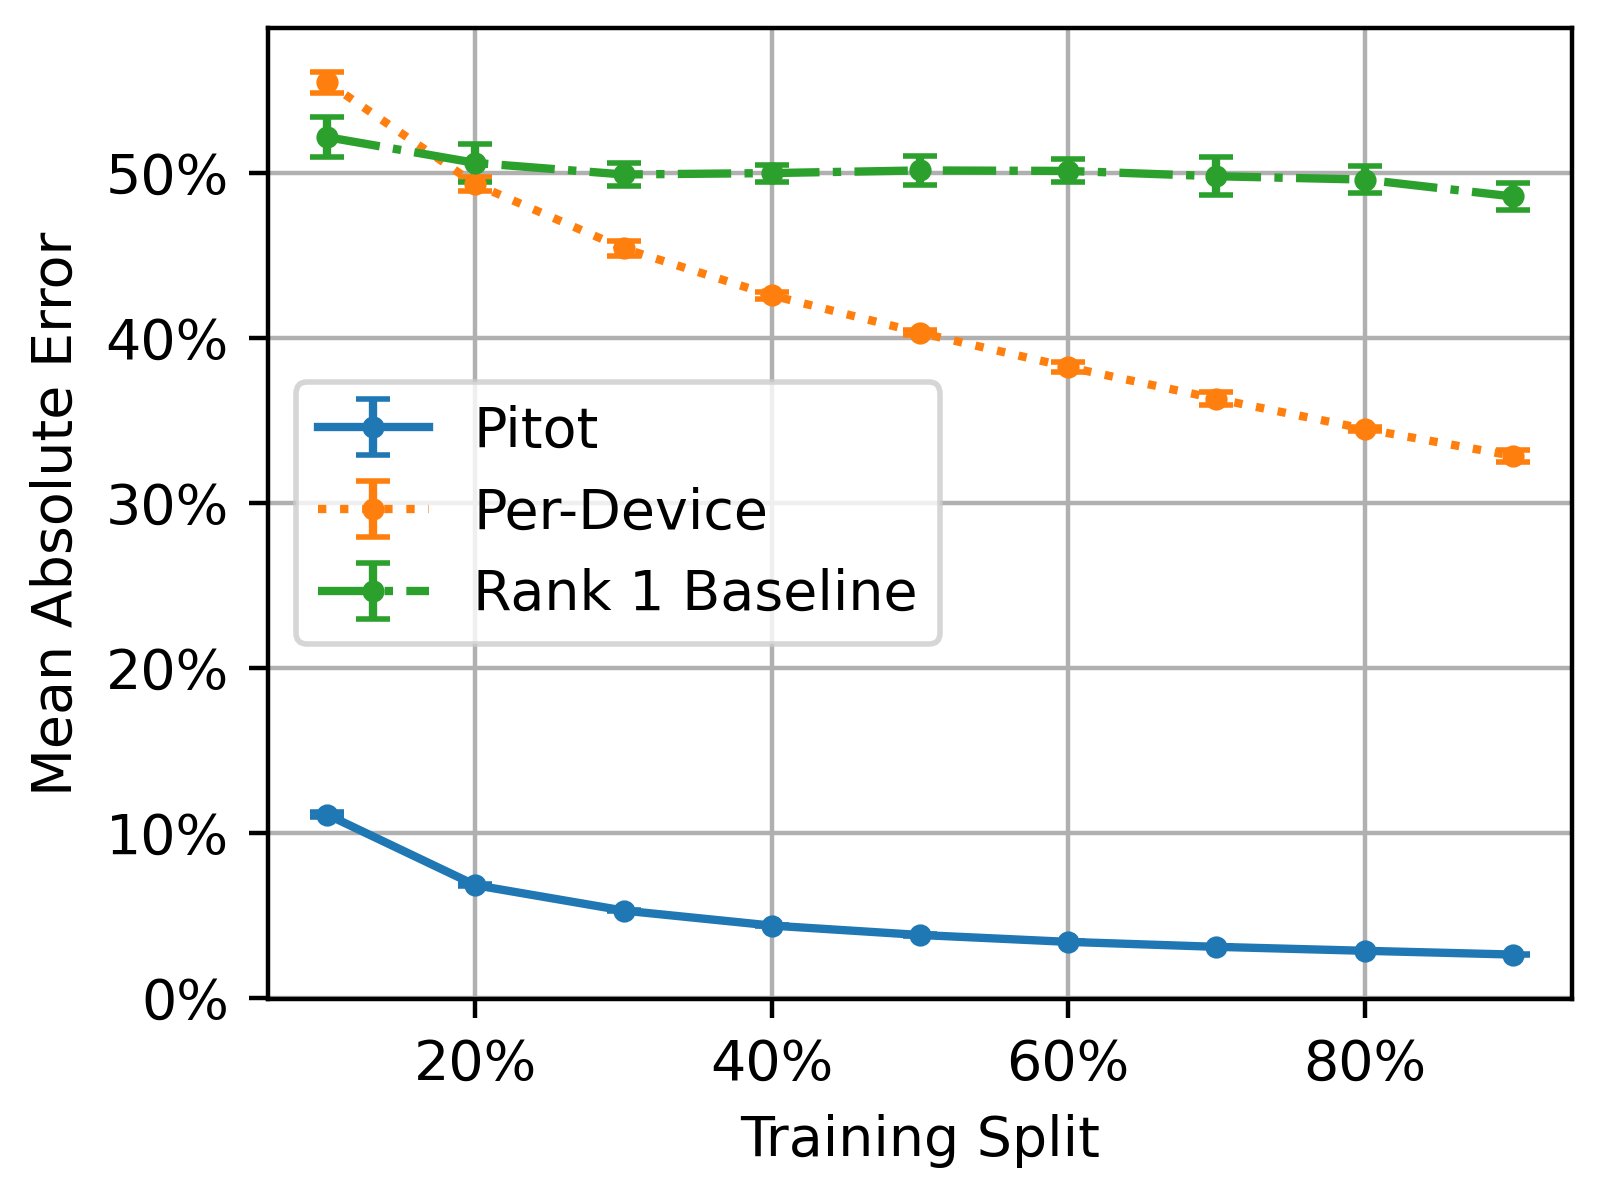
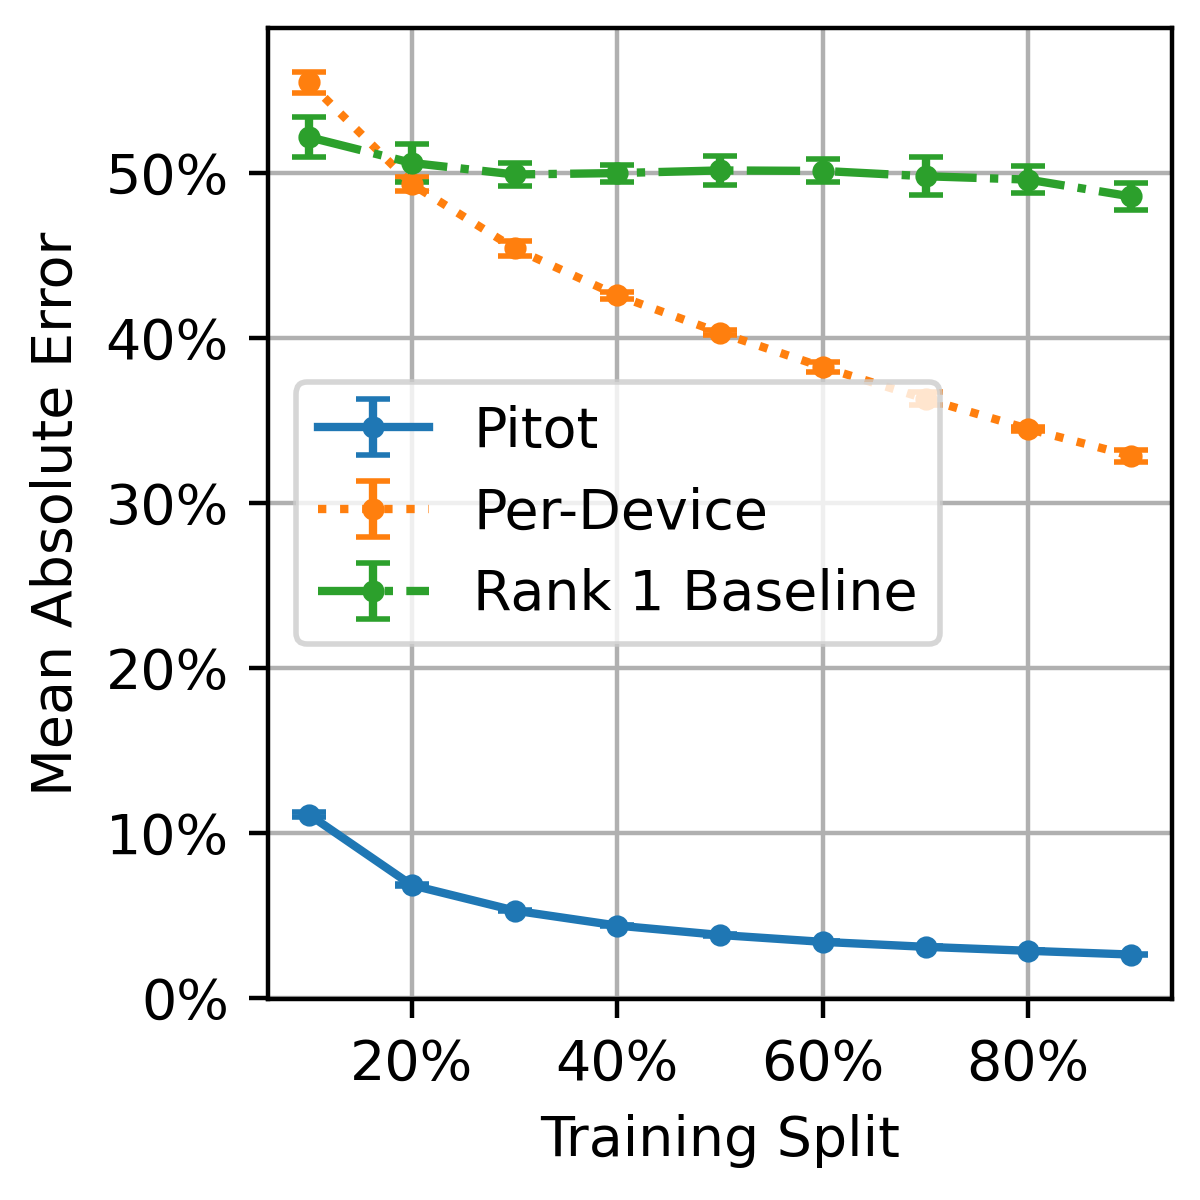
Update figures

diff --git a/tools/compare.py b/tools/compare.py
@@ -99,13 +99,14 @@ def _plot_percentile(
     for v, label, fmt in zip(values, labels, format):
         ax.plot(
             np.array(data[v]["splits"]),
-            -np.array(data[v][key]["percentile"])[:, p],
+            np.exp(-np.array(data[v][key]["percentile"])[:, p]) - 1,
             fmt, label=label)
 
     if baseline is not None:
         ax.plot(
             np.array(data[values[-1]]["splits"]),
-            -np.array(data[values[-1]][key]["baseline_percentile"])[:, p],
+            np.exp(-np.array(
+                data[values[-1]][key]["baseline_percentile"])[:, p]) - 1,
             format[-1], label=baseline)
 
     if legend:
@@ -119,7 +120,7 @@ class Figures:
     @staticmethod
     def comparison(args):
         """Baseline comparisons."""
-        figa, ax = plt.subplots(1, 1, figsize=(4, 3))
+        figa, ax = plt.subplots(1, 1, figsize=(3, 3))
         _plot(
             ax, ["embedding/128", "linear/128", "baseline/mlp"],
             labels=[
@@ -128,7 +129,7 @@ class Figures:
         ax.set_ylabel("Mean Absolute Error")
         _fmt_axes(figa, ax)
 
-        figb, ax = plt.subplots(1, 1, figsize=(4, 3))
+        figb, ax = plt.subplots(1, 1, figsize=(3, 3))
         _plot(
             ax, ["embedding/128", "baseline/device_mlp"],
             labels=["Pitot", "Per-Device"],
@@ -136,7 +137,7 @@ class Figures:
         ax.set_ylabel("Mean Absolute Error")
         _fmt_axes(figb, ax)
 
-        figc, ax = plt.subplots(1, 1, figsize=(4, 3))
+        figc, ax = plt.subplots(1, 1, figsize=(3, 3))
         _plot(
             ax, [
                 "embedding/128", "baseline/module_only",
@@ -155,15 +156,22 @@ class Figures:
     @staticmethod
     def percentile(args):
         """Comparison of calibration magnitude."""
-        fig, ax = plt.subplots(1, 1, figsize=(3, 3))
+        fig, axs = plt.subplots(1, 2, figsize=(6, 3))
         _plot_percentile(
-            ax, ["embedding/128", "linear/128", "baseline/mlp"], p=5,
+            axs[0], ["embedding/128", "linear/128", "baseline/mlp"], p=1,
             labels=[
                 "Pitot", "Linear Factorization",
-                "Single Network"])
-        ax.set_ylabel("5% Calibration Margin")
-        _fmt_axes(fig, ax)
-        fig.tight_layout(pad=0.5)
+                "Single Network"], legend=False)
+        _plot_percentile(
+            axs[1], ["embedding/128", "linear/128", "baseline/mlp"], p=5,
+            labels=[
+                "Pitot", "Linear Factorization",
+                "Single Network"], legend=True)
+        axs[0].set_ylabel("Calibration Margin")
+        axs[0].set_title("99% Certainty")
+        axs[1].set_title("95% Certainty")
+        _fmt_axes(fig, axs)
+
         return {"percentile": fig}
 
     @staticmethod
@@ -211,7 +219,6 @@ class Figures:
         axs[0].set_ylabel("Relative Error")
         axs[0].set_title("Non-interference Error")
         axs[1].set_title("Interference Error")
-
         _sharey(axs)
         _fmt_axes(fig, axs)
         for ax in axs:

diff --git a/tools/embedded.py b/tools/embedded.py
@@ -1,0 +1,80 @@
+"""Plot for embedded-only error."""
+
+import json
+import os
+import numpy as np
+from jax import numpy as jnp
+from tqdm import tqdm
+from matplotlib import pyplot as plt
+import matplotlib.ticker as mtick
+
+from prediction import Dataset, Objective
+
+
+_desc = "Plot error for only embedded devices."
+
+
+def _parse(p):
+    p.add_argument("-p", "--path", default="results", help="Path to results.")
+    p.add_argument(
+        "-d", "--data", default="data/data.npz", help="Dataset directory.")
+    return p
+
+
+def _load_split(ds, method):
+
+    with open(method + ".json") as f:
+        config = json.load(f)
+
+    _obj = config["config"]["objectives"][0]
+    objective = Objective.from_config(ds, _obj)
+    result = np.load(method + ".npz")
+
+    def index(idx):
+        return idx[ds.x[idx][:, 0] == 47]
+
+    means = []
+    for res, split in zip(result["C_hat"], result["mf_test"]):
+        _filtered = index(split)
+        means.append(objective.mape(jnp.array(res), jnp.array(_filtered)))
+    return np.mean(means), np.sqrt(np.var(means, ddof=1))
+
+
+def _load(ds, method):
+
+    splits = sorted([
+        float(x.replace(".npz", "")) for x in os.listdir(method)
+        if x.endswith(".npz")])
+    mean, stderr = list(zip(*[
+        _load_split(ds, os.path.join(method, str(s))) for s in tqdm(splits)]))
+    return np.array(mean).tolist(), np.array(stderr).tolist()
+
+
+def _main(args):
+
+    methods = {
+        "embedding/128": "Pitot",
+        "baseline/mlp": "Single Network",
+        "linear/128": "Linear Factorization",
+        "baseline/device_mlp": "Per-Device",
+    }
+
+    ds = Dataset.from_npz(args.data)
+    data = {
+        method: _load(ds, os.path.join(args.path, method))
+        for method in methods
+    }
+    splits = [0.1, 0.2, 0.3, 0.4, 0.5, 0.6, 0.7, 0.8, 0.9]
+    fig, ax = plt.subplots(1, 1, figsize=(3, 3))
+    for (k, (mean, stderr)), fmt in zip(data.items(), ['.-', '.:', '.--']):
+        ax.errorbar(
+            splits, mean, yerr=stderr, label=methods[k], capsize=3, fmt=fmt)
+    ax.grid()
+    ax.legend()
+    ax.set_xlabel("Training Split")
+    ax.set_ylabel("Mean Absolute Error (Embedded)")
+    ax.set_ylim(0, 1.2)
+    ax.xaxis.set_major_formatter(mtick.PercentFormatter(1.0))
+    ax.yaxis.set_major_formatter(mtick.PercentFormatter(1.0))
+    fig.tight_layout(pad=0.5)
+    fig.savefig("figures/comparisons_d.png", dpi=400)

diff --git a/tools/plot_simulation.py b/tools/plot_simulation.py
@@ -17,10 +17,10 @@ def _parse(p):
     return p
 
 
-def _main(args):
+def _plot_result(ax, path):
 
     def _load(method):
-        base_dir = os.path.join(args.path, method)
+        base_dir = os.path.join(path, method)
         splits = os.listdir(base_dir)
         splits = sorted([float(x.split(".")[0]) for x in splits])
 
@@ -28,7 +28,7 @@ def _main(args):
         stderr = []
         for s in splits:
             fname = str(int(s)) + ".npz"
-            oracle = np.load(os.path.join(args.path, "oracle", fname))
+            oracle = np.load(os.path.join(path, "oracle", fname))
             npz = np.load(os.path.join(base_dir, fname))
             rel = (np.mean(npz["latency"] / oracle["latency"], axis=1))
             mean.append(np.mean(rel))
@@ -43,18 +43,37 @@ def _main(args):
     }
     res = {m: _load(m) for m in methods}
 
-    fig, ax = plt.subplots(1, 1, figsize=(3, 3))
     styles = ['.-', '.:', '.--', '.-.']
     for (k, (splits, mean, stderr)), fmt in zip(res.items(), styles):
         ax.errorbar(
             splits, mean, yerr=stderr * 2,
             capsize=2, fmt=fmt, label=methods[k])
-    ax.axhline(1.0, linestyle='--', label='Oracle', color='black')
-    ax.grid()
-    ax.set_xlabel("Number of Tasks")
-    ax.set_ylabel("Relative Latency")
-    ax.legend()
-    ax.yaxis.set_major_formatter(mtick.PercentFormatter(1.0))
-    fig.tight_layout(pad=0.5)
 
+
+def _main(args):
+
+    fig, axs = plt.subplots(1, 2, figsize=(6, 3))
+
+    for ax, margin in zip(axs, ["p1", "p5"]):
+        _plot_result(ax, os.path.join(args.path, margin))
+        ax.axhline(1.0, linestyle='--', label='Oracle', color='black')
+        ax.grid()
+        ax.set_xlabel("Number of Tasks")
+    axs[0].set_ylabel("Relative Latency")
+    axs[0].yaxis.set_major_formatter(mtick.PercentFormatter(1.0))
+    axs[1].legend()
+
+    axs[0].set_title("99% Certainty")
+    axs[1].set_title("95% Certainty")
+
+    for ax in axs:
+        ax.set_ylim(0.9, 2.75)
+
+    for tick in axs[1].yaxis.get_major_ticks():
+        tick.tick1line.set_visible(False)
+        tick.tick2line.set_visible(False)
+        tick.label1.set_visible(False)
+        tick.label2.set_visible(False)
+
+    fig.tight_layout(pad=0.5)
     fig.savefig(os.path.join(args.out, "simulation.png"), dpi=400)

diff --git a/tools/figures.py b/tools/figures.py
@@ -48,8 +48,10 @@ class Figures:
         _, S_iid, _ = np.linalg.svd(X_iid)
 
         fig, ax = plt.subplots(1, 1, figsize=(4.5, 3))
-        ax.plot(np.arange(25), S[:25], label="Residual Spectrum")
-        ax.plot(np.arange(25), S_iid[:25], label="Random Matrix")
+        ax.plot(np.arange(25), S[:25], 'o-', label="Residual Spectrum")
+        ax.plot(np.arange(25), S_iid[:25], '--', label="Random Matrix")
+        ax.set_yscale('log')
+        ax.set_ylabel("Singular value (log-scale)")
         ax.set_xlabel("First 25 Singular Values")
         ax.grid()
         ax.legend()
@@ -107,8 +109,10 @@ class Figures:
         baseline = ds["data"][ds["if_platform"], ds["if_module"]]
         interference = ds["if_data"] / baseline - 1
         fig, ax = plt.subplots(1, 1, figsize=(4.5, 3))
-        ax.hist(interference, bins=np.linspace(0, 1.50, 16), density=True)
+        ax.hist(interference, bins=np.linspace(0, 2.50, 51), density=True)
+        ax.set_yscale('log')
         ax.set_xlabel("Interference Slowdown")
+        ax.set_ylabel("Probability (log-scale)")
         ax.xaxis.set_major_formatter(mtick.PercentFormatter(1.0))
         ax.grid()
         fig.tight_layout()

diff --git a/tools/simulate.py b/tools/simulate.py
@@ -28,6 +28,9 @@ def _parse(p):
     p.add_argument(
         "-n", "--replicates", type=int, default=10,
         help="Number of replicates to run.")
+    p.add_argument(
+        "--percentile", type=int, default=5,
+        help="Calibration percentile.")
     return p
 
 
@@ -61,7 +64,7 @@ def _main(args):
         if predictor is not None:
             predictor = os.path.join(args.path, predictor, "0.1.npz")
         return SimulatedOrchestrator(
-            mf_obj, sim, predictor=predictor, **kwargs)
+            mf_obj, sim, predictor=predictor, p=args.percentile, **kwargs)
 
     orchestrators = {
         "oracle": _create(predictor=None),

diff --git a/tools/__init__.py b/tools/__init__.py
@@ -12,6 +12,7 @@ from . import figures
 from . import tsne
 from . import simulate
 from . import plot_simulation
+from . import embedded
 
 
 commands = {
@@ -26,5 +27,6 @@ commands = {
     "figures": figures,
     "tsne": tsne,
     "simulate": simulate,
-    "plot_simulation": plot_simulation
+    "plot_simulation": plot_simulation,
+    "embedded": embedded
 }

diff --git a/README.md b/README.md
@@ -34,6 +34,8 @@ python manage.py experiments embedding/* features/* linear/128 baseline/*
 python manage.py experiments interference/* -d data/data.if.npz
 python manage.py experiments interference3/discard interference3/ignore interference3/2 -d data/data.if3.npz
 python manage.py experiments interference3/no-smt -d data/data.if3.mc.npz
+python manage.py simulate -o results-simulation/p1 --percentile 1
+python manage.py simulate -o results-simulation/p5 --percentile 5
 ```
 
 To draw the figures:
@@ -42,4 +44,5 @@ python manage.py compare
 python manage.py figures
 python manage.py tsne
 python manage.py plot_simulation
+python manage.py embedded
 ```
